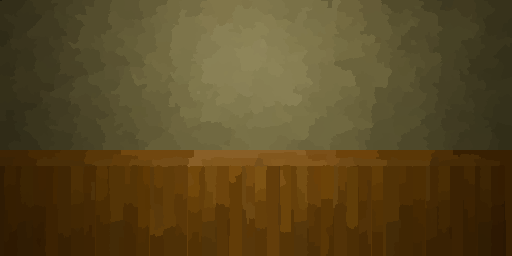
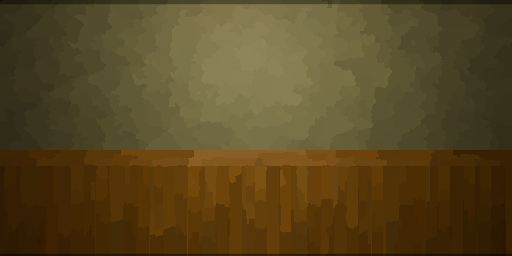
added 3rd level and end screen

Changed region(s): [[0.0625, 0.0, 0.9375, 0.0312], [0.1562, 0.9688, 0.8438, 1.0]]

diff --git a/SFML Template 3.0.01(working)1/SFML Template 3.0.01(working)1/Game.cpp b/SFML Template 3.0.01(working)1/SFML Template 3.0.01(working)1/Game.cpp
@@ -159,6 +159,12 @@ void Game::update(sf::Time t_deltaTime)
 		miniMap.setCenter({ player.body.getPosition() });
 		background.setPosition(sf::Vector2f{ player.body.getPosition().x, player.body.getPosition().y + 150 });
 		break;
+	case GameState::END:
+		if (sf::Keyboard::isKeyPressed(sf::Keyboard::Key::Enter))
+		{
+			levelNum = 1;
+			gameState = GameState::MENU;
+		}
 	default:
 		break;
 	}
@@ -215,6 +221,9 @@ void Game::render()
 		player.Render(m_window, true);
 
 		break;
+	case GameState::END:
+		m_window.setView(m_window.getDefaultView());
+		m_window.draw(endScreen);
 	default:
 		break;
 	}
@@ -225,6 +234,11 @@ void Game::render()
 
 void Game::nextLevel()
 {
+	if (levelNum >= 3)
+	{
+		levelNum = 1;
+		gameState = GameState::END;
+	}
 	levelNum++;
 	player.position = sf::Vector2f{ 800.f, 1530.f };
 	player.health = 100;
@@ -258,6 +272,8 @@ std::vector<sf::Vector2f> Game::getEnemySpawns(int level)
 		return { {3950.f, 1530.f}, {6000.f, 765.f}, { 15491.f, 2040.f } };
 	case 2: 
 		return { {6636.f, 1530.f}, {8878.f, 2040.f}, {15433.f, 1912.f}, {16567.3, 2167} };
+	case 3:
+		return{ {11719.f, 1275.f}, {9214.f, 1275.f}, {3402.f, 1147.f}, {4704.f, 1147.f}, { 15594.f, 765.f} };
 	default: return {};
 	}
 	return std::vector<sf::Vector2f>();
@@ -273,6 +289,12 @@ void Game::setupSprites()
 		std::cout << "error loading title screen" << std::endl;
 	}
 	titleScreen.setTexture(titleScreenTex, true);
+
+	if (!endScreenTex.loadFromFile(("ASSETS\\IMAGES\\EndScreen.png")))
+	{
+		std::cout << "error loading end screen" << std::endl;
+	}
+	endScreen.setTexture(endScreenTex, true);
 
 	if (!titleTex.loadFromFile(("ASSETS\\IMAGES\\Title.png")))
 	{

diff --git a/SFML Template 3.0.01(working)1/SFML Template 3.0.01(working)1/MovementStates.h b/SFML Template 3.0.01(working)1/SFML Template 3.0.01(working)1/MovementStates.h
@@ -227,11 +227,8 @@ public:
 class StateFalling : public StateMachine
 {
 public:
-    int startHeight;
-
     void enter(Entity& e) override
     {
-        startHeight = e.position.y;
         if (e.facing == Direction::RIGHT)
         {
             e.body.setTexture(e.FallRTex);
@@ -902,6 +899,7 @@ class StateDeath : public StateMachine
 public:
     void enter(Entity& e) override
     {
+        e.fallTimer = 0;
         e.canTakeDamage = false;
         e.currentFrame = 0;
         if (e.facing == Direction::LEFT)

diff --git a/SFML Template 3.0.01(working)1/SFML Template 3.0.01(working)1/Game.h b/SFML Template 3.0.01(working)1/SFML Template 3.0.01(working)1/Game.h
@@ -24,6 +24,7 @@ enum class GameState
 {
 	MENU,
 	GAMEPLAY,
+	END,
 };
 
 
@@ -69,13 +70,15 @@ private:
 
 	sf::Texture titleScreenTex;
 	sf::Sprite titleScreen{ titleScreenTex };
+	sf::Texture endScreenTex;
+	sf::Sprite endScreen{ endScreenTex };
 	sf::Texture titleTex;
 	sf::Sprite title{ titleTex };
 	sf::Texture titleOptionsTex;
 	sf::Sprite titleOptions{ titleOptionsTex };
 	sf::View camera;
 
-	int levelNum = 1;
+	int levelNum = 3;
 
 	float uiPadding = 10.f;
 	sf::Vector2u winSize = m_window.getSize();

diff --git a/SFML Template 3.0.01(working)1/SFML Template 3.0.01(working)1/Entity.h b/SFML Template 3.0.01(working)1/SFML Template 3.0.01(working)1/Entity.h
@@ -151,7 +151,7 @@ public:
 
     sf::Clock clock;
     int fallTimer = 0;
-    int fatalFall = 73;
+    int fatalFall = 90;
 
     float verticalVelocity = 0.f;
     float gravity = 0.5f;
